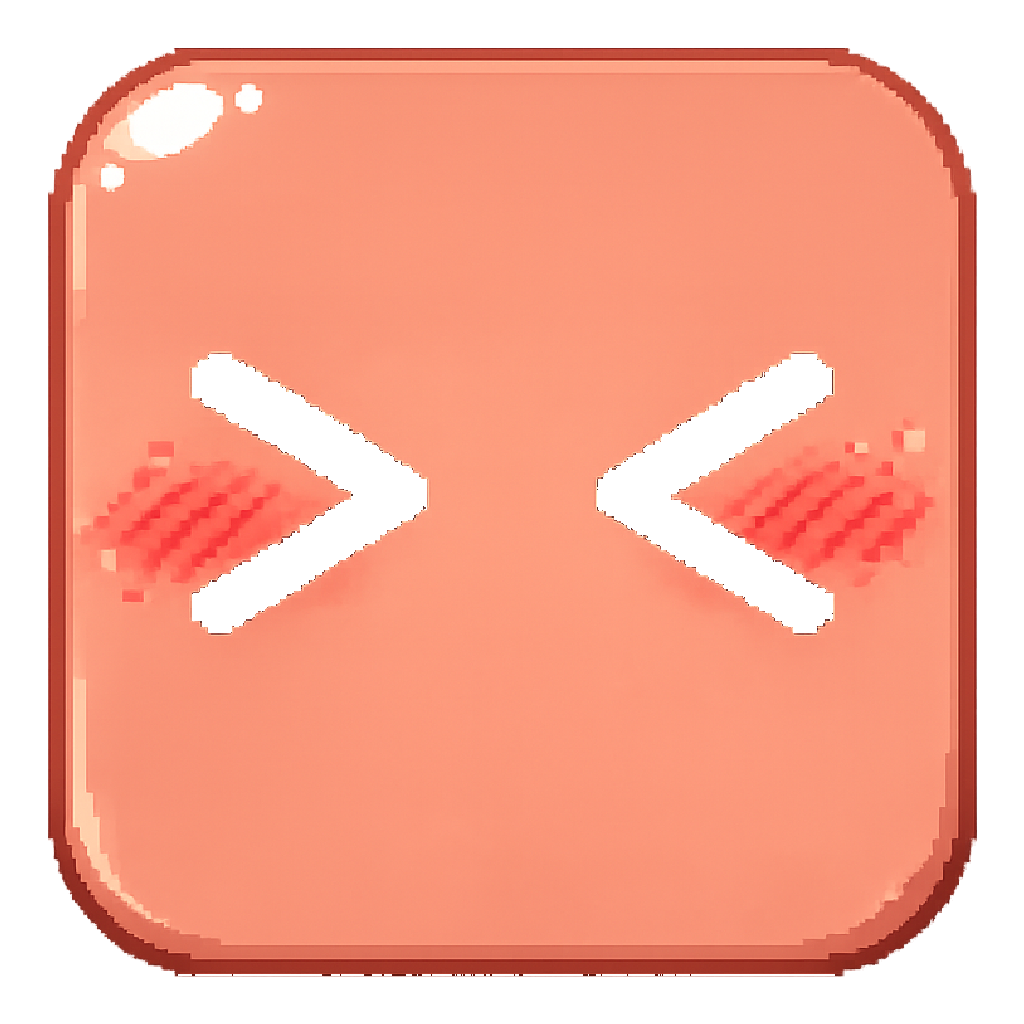
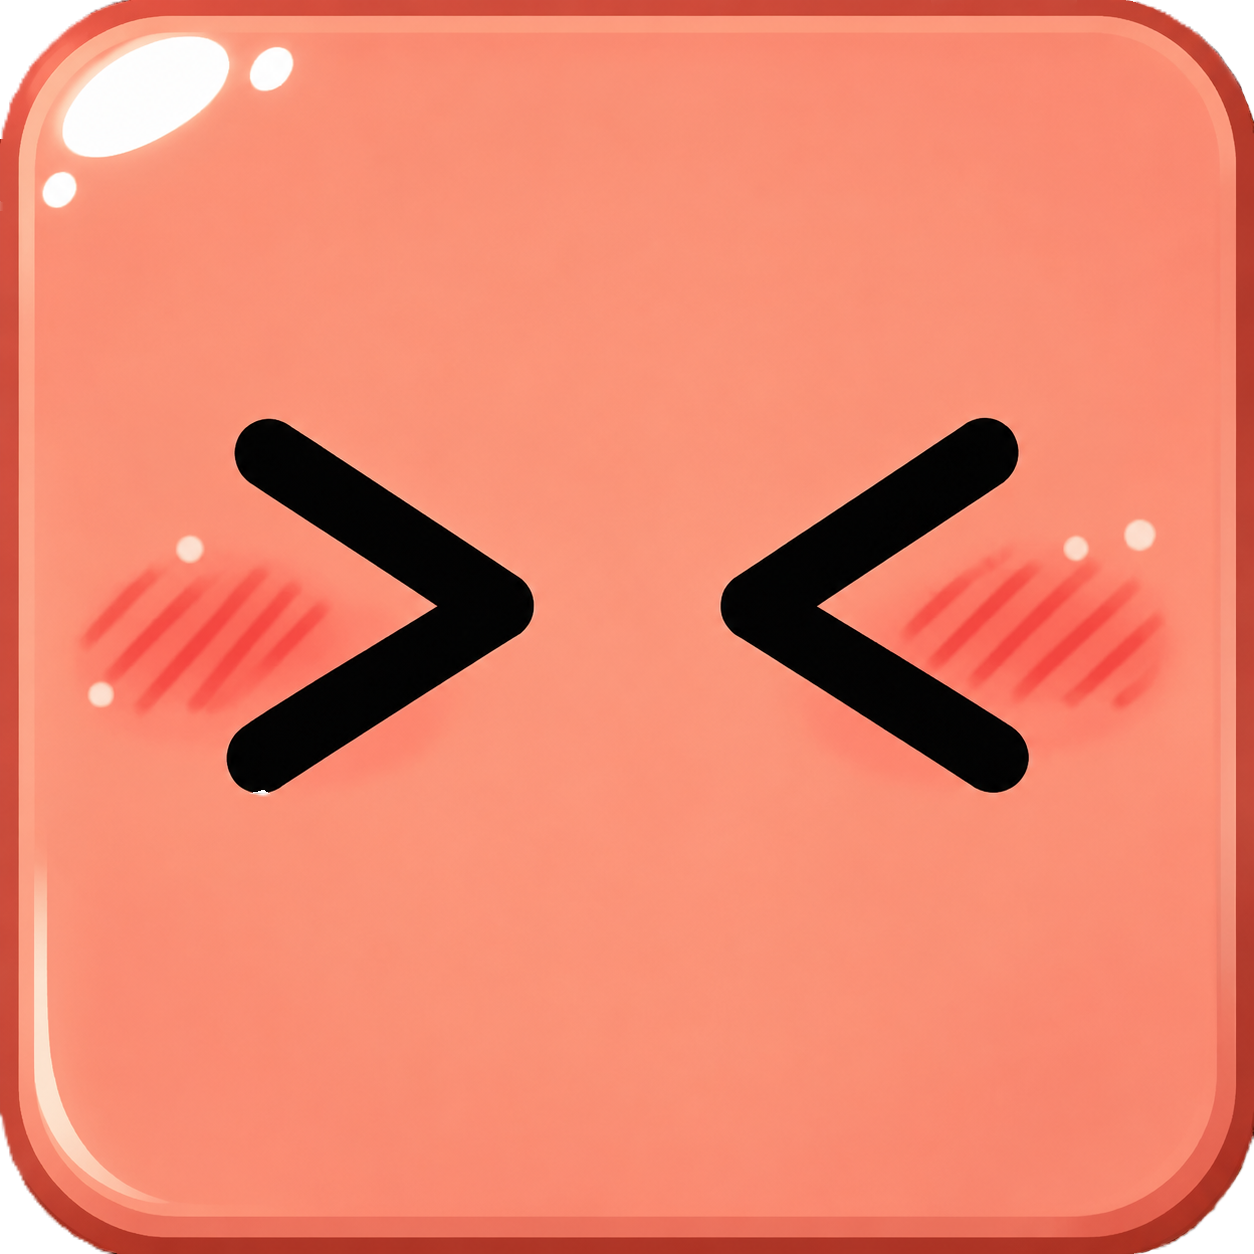
feat(mac): dock 图标更新 + 脚本清理
- dock-icon.png: 更新为高清透明背景版本
- 删除 scripts/extract-dock-icon.js（一次性脚本）
- package.json: 移除 extract-dock-icon 脚本入口
- src/main.js: 移除 dock icon 相关冗余代码

diff --git a/src/main.js b/src/main.js
@@ -2871,12 +2871,6 @@ if (!gotTheLock) {
       return;
     }
 
-    // macOS: override dock icon with transparent crab face
-    if (process.platform === "darwin" && app.dock) {
-      const dockIconPath = path.join(__dirname, "..", "assets", "dock-icon.png");
-      try { app.dock.setIcon(dockIconPath); } catch {}
-    }
-
     // Import system-backed settings (openAtLogin) into prefs on first run.
     // Must run before createWindow() so the first menu draw sees the
     // hydrated value rather than the schema default.